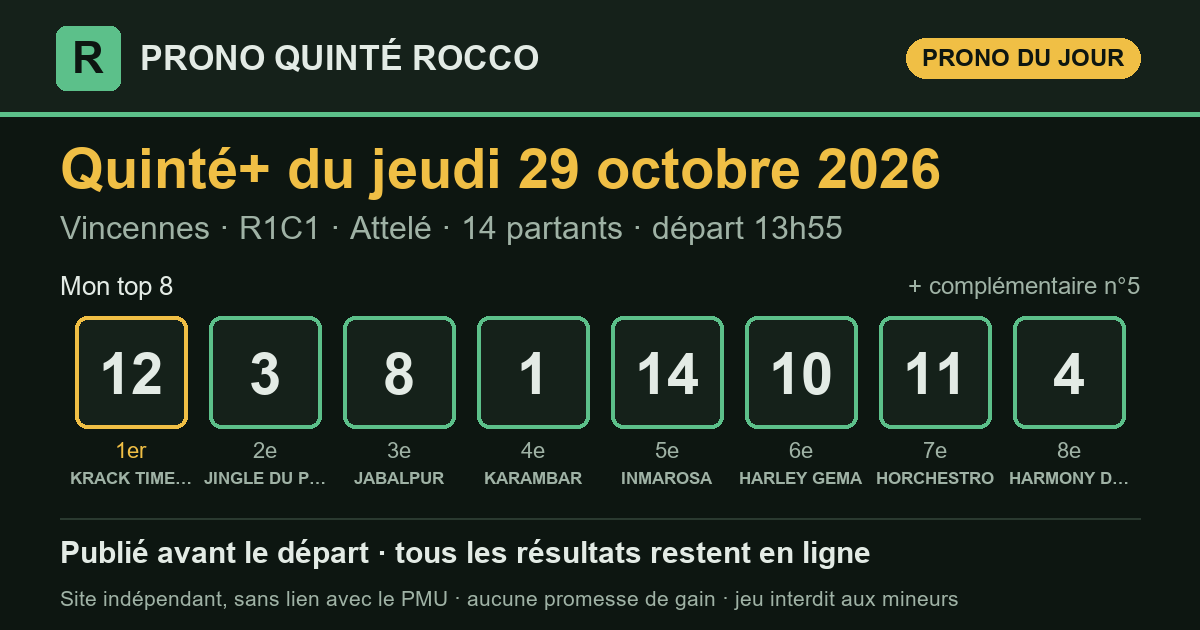
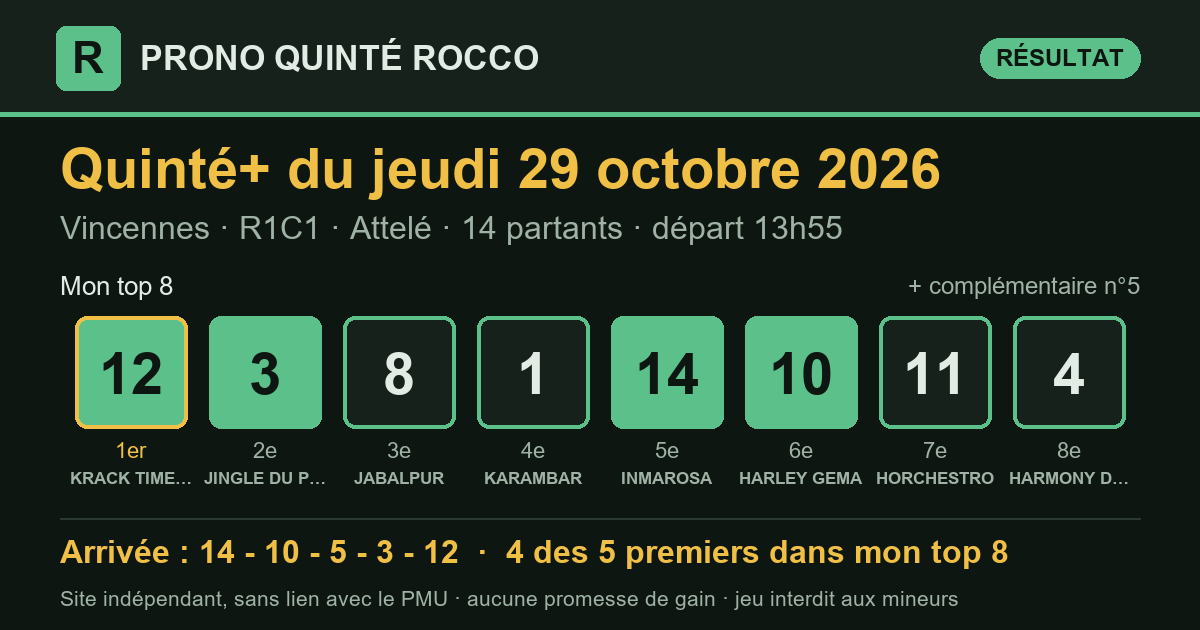
Prono Quinté+ 2026-10-29 Vincennes R1C1 — publié le 29/10/2026 14:12 (heure de Paris)

diff --git a/partants.html b/partants.html
@@ -3,7 +3,7 @@
 <head>
 <meta charset="utf-8">
 <meta name="viewport" content="width=device-width, initial-scale=1, viewport-fit=cover">
-<title>Partants du Quinté+ du jeudi 29 octobre 2026 — Prono Quinté Rocco</title>
+<title>Partants du Quinté+ du vendredi 30 octobre 2026 — Prono Quinté Rocco</title>
 <meta name="description" content="Les partants du prochain Quinté+ (programme officiel du PMU), avec le rang de chaque cheval dans mon prono et les liens vers les pronostics de la presse.">
 <link rel="canonical" href="https://prono-quinte-rocco.fr/partants.html">
 <link rel="stylesheet" href="style.css?v=88a1c822">
@@ -13,7 +13,7 @@
 <meta property="og:site_name" content="Prono Quinté Rocco">
 <meta property="og:locale" content="fr_FR">
 <meta property="og:type" content="website">
-<meta property="og:title" content="Partants du Quinté+ du jeudi 29 octobre 2026 — Prono Quinté Rocco">
+<meta property="og:title" content="Partants du Quinté+ du vendredi 30 octobre 2026 — Prono Quinté Rocco">
 <meta property="og:description" content="Les partants du prochain Quinté+ (programme officiel du PMU), avec le rang de chaque cheval dans mon prono et les liens vers les pronostics de la presse.">
 <meta property="og:url" content="https://prono-quinte-rocco.fr/partants.html">
 <meta name="twitter:card" content="summary">
@@ -29,90 +29,105 @@
   <p class="surtitre">Programme officiel du PMU</p>
   <h1>Les partants du prochain Quinté+</h1>
   <div class="fiche-course">
-    <p class="fiche-date">Jeudi 29 octobre 2026</p>
-    <div class="fiche-rc"><span class="pastille" title="Réunion 1">R1</span><span class="pastille" title="Course 1">C1</span><span class="fiche-nom">Prix des Cevennes</span></div>
-    <p class="meta">Vincennes · Trot_attele · 2 850 m · 14 partants</p>
-    <p class="fiche-depart">Départ <b>13:55</b> <span>heure de Paris</span></p>
+    <p class="fiche-date">Vendredi 30 octobre 2026</p>
+    <div class="fiche-rc"><span class="pastille" title="Réunion 1">R1</span><span class="pastille" title="Course 5">C5</span><span class="fiche-nom">Prix Mebsuta</span></div>
+    <p class="meta">Vincennes · Trot_attele · 2 700 m · 17 partants</p>
+    <p class="fiche-depart">Départ <b>20:22</b> <span>heure de Paris</span></p>
   </div>
   <p class="surtitre">Les pronostics ailleurs sur le web</p>
-  <div class="liens"><a class="lien-ext" href="https://www.turfoo.fr/programmes-courses/261029/reunion1-vincennes/course1-prix-des-cevennes/pronostics-presse/" rel="noopener" target="_blank"><b>Les pronostics de la presse →</b><span>sur Turfoo (site extérieur)</span></a><a class="lien-ext" href="https://www.geny.com/programme/2026-10-29" rel="noopener" target="_blank"><b>Partants et pronostics →</b><span>programme du jour sur Geny (site extérieur)</span></a></div>
+  <div class="liens"><a class="lien-ext" href="https://www.turfoo.fr/programmes-courses/261030/reunion1-vincennes/course5-prix-mebsuta/pronostics-presse/" rel="noopener" target="_blank"><b>Les pronostics de la presse →</b><span>sur Turfoo (site extérieur)</span></a><a class="lien-ext" href="https://www.geny.com/programme/2026-10-30" rel="noopener" target="_blank"><b>Partants et pronostics →</b><span>programme du jour sur Geny (site extérieur)</span></a></div>
   <div class="liste-boite"><table class="liste-partants">
     <thead><tr><th>N°</th><th>Cheval</th><th class="cote"><span class="long">Cote du matin</span><span class="court">Cote</span></th>
     <th class="ia"><span class="long">Mon prono</span><span class="court">Prono</span></th></tr></thead>
     <tbody><tr>
   <td><span class="tapis petit">1</span></td>
-  <td><span class="cheval">KARAMBAR</span><span class="sous">A. ABRIVARD · L.CL. ABRIVARD</span></td>
-  <td class="cote num">24,0</td>
-  <td class="ia"><span class="etat place">4<sup>e</sup></span></td>
+  <td><span class="cheval">MY HAPPY STORY</span><span class="sous">D. BONNE · D. BONNE</span></td>
+  <td class="cote num">—</td>
+  <td class="ia">—</td>
 </tr><tr>
   <td><span class="tapis petit">2</span></td>
-  <td><span class="cheval">HUBBLE DU VIVIER</span><span class="sous">Mme T. MATHIAS-MAISONNETTE · N. BAZIRE</span></td>
-  <td class="cote num">59,0</td>
+  <td><span class="cheval">MYGIRL DES FORGES</span><span class="sous">ALEXANDRE BODIN · CH. MOTTIER</span></td>
+  <td class="cote num">—</td>
   <td class="ia">—</td>
 </tr><tr>
   <td><span class="tapis petit">3</span></td>
-  <td><span class="cheval">JINGLE DU PONT</span><span class="sous">N. BAZIRE · N. BAZIRE</span></td>
-  <td class="cote num">5,9</td>
-  <td class="ia"><span class="etat place">2<sup>e</sup></span></td>
+  <td><span class="cheval">MA LIBERTE</span><span class="sous">M. MOTTIER · M. MOTTIER</span></td>
+  <td class="cote num">—</td>
+  <td class="ia">—</td>
 </tr><tr>
   <td><span class="tapis petit">4</span></td>
-  <td><span class="cheval">HARMONY DU RABUTIN</span><span class="sous">D. BONNE · F. GIARD</span></td>
-  <td class="cote num">21,0</td>
-  <td class="ia"><span class="etat place">8<sup>e</sup></span></td>
+  <td><span class="cheval">MILANTERA</span><span class="sous">A. BARRIER · J.PH. MONCLIN</span></td>
+  <td class="cote num">—</td>
+  <td class="ia">—</td>
 </tr><tr>
   <td><span class="tapis petit">5</span></td>
-  <td><span class="cheval">HULYSSE DIGEO</span><span class="sous">J.W. HALLAIS · J.W. HALLAIS</span></td>
-  <td class="cote num">13,0</td>
-  <td class="ia"><span class="etat place">compl.</span></td>
+  <td><span class="cheval">MORNING NEWS</span><span class="sous">A. COLLETTE · Sté. Ent. Etienne DUBOIS</span></td>
+  <td class="cote num">—</td>
+  <td class="ia">—</td>
 </tr><tr>
   <td><span class="tapis petit">6</span></td>
-  <td><span class="cheval">JUSTIN BOLD</span><span class="sous">P.Y. VERVA · J.R. DELLIAUX</span></td>
-  <td class="cote num">81,0</td>
+  <td><span class="cheval">MAHIZ DE GUEZ</span><span class="sous">N. BAZIRE · N. BAZIRE</span></td>
+  <td class="cote num">—</td>
   <td class="ia">—</td>
 </tr><tr>
   <td><span class="tapis petit">7</span></td>
-  <td><span class="cheval">HANNIBAL TUILERIE</span><span class="sous">G. LENAIN · CH.M. BRUNEAU</span></td>
-  <td class="cote num">30,0</td>
+  <td><span class="cheval">MI FA SOL</span><span class="sous">F. NIVARD · F. NIVARD</span></td>
+  <td class="cote num">—</td>
   <td class="ia">—</td>
 </tr><tr>
   <td><span class="tapis petit">8</span></td>
-  <td><span class="cheval">JABALPUR</span><span class="sous">E. RAFFIN · A. CHAVATTE</span></td>
-  <td class="cote num">6,3</td>
-  <td class="ia"><span class="etat place">3<sup>e</sup></span></td>
+  <td><span class="cheval">MISSLADY DU VICLAU</span><span class="sous">CH. HESLOUIN · CH. HESLOUIN</span></td>
+  <td class="cote num">—</td>
+  <td class="ia">—</td>
 </tr><tr>
   <td><span class="tapis petit">9</span></td>
-  <td><span class="cheval">KAPAULA DE L&#x27;EPINE</span><span class="sous">J.G. VAN EECKHAUTE · J.G. VAN EECKHAUTE</span></td>
-  <td class="cote num">73,0</td>
+  <td><span class="cheval">MOON DES ARRIS</span><span class="sous">A. REBECHE · V. LEBARQUE</span></td>
+  <td class="cote num">—</td>
   <td class="ia">—</td>
 </tr><tr>
   <td><span class="tapis petit">10</span></td>
-  <td><span class="cheval">HARLEY GEMA</span><span class="sous">B. ROCHARD · M. SASSIER</span></td>
-  <td class="cote num">12,0</td>
-  <td class="ia"><span class="etat place">6<sup>e</sup></span></td>
+  <td><span class="cheval">MELODICA BELLA</span><span class="sous">A. WIELS · J.P. MARMION</span></td>
+  <td class="cote num">—</td>
+  <td class="ia">—</td>
 </tr><tr>
   <td><span class="tapis petit">11</span></td>
-  <td><span class="cheval">HORCHESTRO</span><span class="sous">D. BEKAERT · M. BONNEFOY</span></td>
-  <td class="cote num">10,0</td>
-  <td class="ia"><span class="etat place">7<sup>e</sup></span></td>
+  <td><span class="cheval">MERIDA DU GRANIT</span><span class="sous">T. OUVRIE · J.PH. MONCLIN</span></td>
+  <td class="cote num">—</td>
+  <td class="ia">—</td>
 </tr><tr>
   <td><span class="tapis petit">12</span></td>
-  <td><span class="cheval">KRACK TIME ATOUT</span><span class="sous">F. NIVARD · S. GUARATO</span></td>
-  <td class="cote num">3,9</td>
-  <td class="ia"><span class="etat place">1<sup>er</sup></span></td>
+  <td><span class="cheval">MIA DE SIMM</span><span class="sous">F. LAGADEUC · J.ET. LE BEC</span></td>
+  <td class="cote num">—</td>
+  <td class="ia">—</td>
 </tr><tr>
   <td><span class="tapis petit">13</span></td>
-  <td><span class="cheval">IGUSKI SAUTONNE</span><span class="sous">J.ET. ABRIVARD · M. ABRIVARD</span></td>
-  <td class="cote num">52,0</td>
+  <td><span class="cheval">MOUSKIE DE GUEZ</span><span class="sous">J.M. BAZIRE · N. BAZIRE</span></td>
+  <td class="cote num">—</td>
   <td class="ia">—</td>
 </tr><tr>
   <td><span class="tapis petit">14</span></td>
-  <td><span class="cheval">INMAROSA</span><span class="sous">LEO ABRIVARD · L.CL. ABRIVARD</span></td>
-  <td class="cote num">6,4</td>
-  <td class="ia"><span class="etat place">5<sup>e</sup></span></td>
+  <td><span class="cheval">MERRY RIVER</span><span class="sous">B. ROCHARD · S. GUARATO</span></td>
+  <td class="cote num">—</td>
+  <td class="ia">—</td>
+</tr><tr>
+  <td><span class="tapis petit">15</span></td>
+  <td><span class="cheval">MARIE DI LEONE</span><span class="sous">P.PH. PLOQUIN · H. LE BEC</span></td>
+  <td class="cote num">—</td>
+  <td class="ia">—</td>
+</tr><tr>
+  <td><span class="tapis petit">16</span></td>
+  <td><span class="cheval">MOONLIGHT STAR</span><span class="sous">E. RAFFIN · ALEXANDRE CHEVRIER</span></td>
+  <td class="cote num">—</td>
+  <td class="ia">—</td>
+</tr><tr>
+  <td><span class="tapis petit">17</span></td>
+  <td><span class="cheval">MOUNTAIN</span><span class="sous">J. DUBOIS · J. DUBOIS</span></td>
+  <td class="cote num">—</td>
+  <td class="ia">—</td>
 </tr></tbody>
   </table></div>
-  <p class="meta">La colonne « Mon prono » donne le rang de chaque cheval dans mon top 8, tel qu&#x27;il est publié sur ce site. Sous chaque cheval : driver · entraîneur. Partants et cotes : programme
-  officiel du PMU, lu le 29/10 à 10:26 (heure de Paris). NP = non-partant.</p>
+  <p class="meta">Mon prono de cette course sera publié le matin de la course, avant le départ. Sous chaque cheval : driver · entraîneur. Partants et cotes : programme
+  officiel du PMU, lu le 29/10 à 14:12 (heure de Paris). NP = non-partant.</p>
 </section>
 </main>
 <footer class="pied">

diff --git a/index.html b/index.html
@@ -16,7 +16,7 @@
 <meta property="og:title" content="Pronostic Quinté+ du jeudi 29 octobre 2026 — Prono Quinté Rocco">
 <meta property="og:description" content="Pronostic Quinté+ du jour : mon top 8, publié avant le départ, puis tous les résultats et le rendement réel.">
 <meta property="og:url" content="https://prono-quinte-rocco.fr/">
-<meta property="og:image" content="https://prono-quinte-rocco.fr/partage/2026-10-29.png?v=5cd9e65d">
+<meta property="og:image" content="https://prono-quinte-rocco.fr/partage/2026-10-29.png?v=67e14e3a">
 <meta property="og:image:type" content="image/png">
 <meta property="og:image:width" content="1200">
 <meta property="og:image:height" content="630">
@@ -31,7 +31,7 @@
 </header>
 <main>
 <section class="une" aria-labelledby="t-jour">
-  <p class="surtitre">Quinté+ du jour</p>
+  <p class="surtitre">Dernier Quinté+</p>
   <h1 id="t-jour">Le prono du Quinté+, résultats compris</h1>
   <p class="chapo">Chaque matin, j'étudie les partants du Quinté+ avec le logiciel que
   j'ai conçu, selon ma propre méthode, qu'une intelligence artificielle m'aide à
@@ -42,10 +42,13 @@
   <p class="meta">Vincennes · <strong>R1C1</strong> · Attelé · 14 partants · lisibilité <span class="note" aria-label="note 2 sur 5"><i class="on"></i><i class="on"></i><i class=""></i><i class=""></i><i class=""></i></span> 2/5</p>
   <div class="zone-prono">
     <h3 class="zone-titre">Mon top 8</h3>
-    <ol class="partants" aria-label="Mon top 8"><li><span class="rang">1<sup>er</sup></span><span class="tapis ">12</span><span class="nom">KRACK TIME ATOUT</span></li><li><span class="rang">2<sup>e</sup></span><span class="tapis ">3</span><span class="nom">JINGLE DU PONT</span></li><li><span class="rang">3<sup>e</sup></span><span class="tapis ">8</span><span class="nom">JABALPUR</span></li><li><span class="rang">4<sup>e</sup></span><span class="tapis ">1</span><span class="nom">KARAMBAR</span></li><li><span class="rang">5<sup>e</sup></span><span class="tapis ">14</span><span class="nom">INMAROSA</span></li><li><span class="rang">6<sup>e</sup></span><span class="tapis ">10</span><span class="nom">HARLEY GEMA</span></li><li><span class="rang">7<sup>e</sup></span><span class="tapis ">11</span><span class="nom">HORCHESTRO</span></li><li><span class="rang">8<sup>e</sup></span><span class="tapis ">4</span><span class="nom">HARMONY DU RABUTIN</span></li><li><span class="rang">compl.</span><span class="tapis creux">5</span><span class="nom">HULYSSE DIGEO</span></li></ol>
+    <ol class="partants" aria-label="Mon top 8"><li><span class="rang">1<sup>er</sup></span><span class="tapis plein">12</span><span class="nom">KRACK TIME ATOUT</span></li><li><span class="rang">2<sup>e</sup></span><span class="tapis plein">3</span><span class="nom">JINGLE DU PONT</span></li><li><span class="rang">3<sup>e</sup></span><span class="tapis ">8</span><span class="nom">JABALPUR</span></li><li><span class="rang">4<sup>e</sup></span><span class="tapis ">1</span><span class="nom">KARAMBAR</span></li><li><span class="rang">5<sup>e</sup></span><span class="tapis plein">14</span><span class="nom">INMAROSA</span></li><li><span class="rang">6<sup>e</sup></span><span class="tapis plein">10</span><span class="nom">HARLEY GEMA</span></li><li><span class="rang">7<sup>e</sup></span><span class="tapis ">11</span><span class="nom">HORCHESTRO</span></li><li><span class="rang">8<sup>e</sup></span><span class="tapis ">4</span><span class="nom">HARMONY DU RABUTIN</span></li><li><span class="rang">compl.</span><span class="tapis creux plein">5</span><span class="nom">HULYSSE DIGEO</span></li></ol>
     <div class="pied-carte"><span>Analysé le 29/10 à 10:23 · en ligne le 29/10 à 10:26 · départ à 13:55 (heure de Paris)</span><span><a href="quinte/2026-10-29.html">Détail de la course</a></span></div>
   </div>
-  <div class="zone-arrivee attente"><p>L'arrivée officielle s'affichera ici après la course.</p></div>
+  <div class="zone-arrivee">
+    <div class="zone-tete"><h3 class="zone-titre">Arrivée officielle</h3><span class="etat place">4 des 5 premiers dans mon top 8</span><span class="etat non">mon 1er (n°12) : non placé</span></div>
+    <ol class="partants" aria-label="Arrivée officielle"><li><span class="rang">1<sup>er</sup></span><span class="tapis plein">14</span><span class="nom">INMAROSA</span></li><li><span class="rang">2<sup>e</sup></span><span class="tapis plein">10</span><span class="nom">HARLEY GEMA</span></li><li><span class="rang">3<sup>e</sup></span><span class="tapis creux plein">5</span><span class="nom">HULYSSE DIGEO</span></li><li><span class="rang">4<sup>e</sup></span><span class="tapis plein">3</span><span class="nom">JINGLE DU PONT</span></li><li><span class="rang">5<sup>e</sup></span><span class="tapis plein">12</span><span class="nom">KRACK TIME ATOUT</span></li></ol>
+  </div>
 </article>
 </section>
 <section class="suivre" aria-label="Suivre et soutenir">
@@ -75,7 +78,7 @@
 </section>
 <section class="bilan" aria-labelledby="t-bilan">
   <h2 id="t-bilan">Mon bilan depuis le 8 septembre 2026</h2>
-  <div class="tableau chiffres"><div class="case"><span class="gros ">72 %</span><span class="lib">des arrivants trouvés dans mon top 8</span><span class="ref">un top 8 tiré au hasard : 51 %</span></div><div class="case"><span class="gros ">86 %</span><span class="lib">des gagnants présents dans mon top 8</span><span class="ref"></span></div><div class="case"><span class="gros ">50 %</span><span class="lib">mon 1er placé</span><span class="ref">sur 50 Quintés</span></div><div class="case"><span class="gros perte">0,93 €</span><span class="lib">rendus pour 1 € joué placé sur mon 1er</span><span class="ref">rapports officiels PMU</span></div><div class="case"><span class="gros perte">0,47 €</span><span class="lib">rendus pour 1 € joué en Quinté+ combiné sur mon top 8</span><span class="ref">56 combinaisons, rapports PMU.fr, sur 50 Quintés</span></div></div>
+  <div class="tableau chiffres"><div class="case"><span class="gros ">73 %</span><span class="lib">des arrivants trouvés dans mon top 8</span><span class="ref">un top 8 tiré au hasard : 51 %</span></div><div class="case"><span class="gros ">86 %</span><span class="lib">des gagnants présents dans mon top 8</span><span class="ref"></span></div><div class="case"><span class="gros ">50 %</span><span class="lib">mon 1er placé</span><span class="ref">sur 50 Quintés</span></div><div class="case"><span class="gros perte">0,93 €</span><span class="lib">rendus pour 1 € joué placé sur mon 1er</span><span class="ref">rapports officiels PMU</span></div><div class="case"><span class="gros perte">0,46 €</span><span class="lib">rendus pour 1 € joué en Quinté+ combiné sur mon top 8</span><span class="ref">56 combinaisons, rapports PMU.fr, sur 51 Quintés</span></div></div>
   <p class="avertissement">Moins de 1 € rendu pour 1 € joué : suivre mon prono à la lettre fait <strong>perdre de l'argent</strong> sur cette période. Il sert à analyser une course, pas à promettre un gain.</p>
 </section>
 </main>

diff --git a/quinte/2026-10-29.html b/quinte/2026-10-29.html
@@ -16,7 +16,7 @@
 <meta property="og:title" content="Pronostic Quinté+ du jeudi 29 octobre 2026 à Vincennes — Prono Quinté Rocco">
 <meta property="og:description" content="Prono Quinté+ du jeudi 29 octobre 2026 (Vincennes) : mon top 8, l&#x27;arrivée officielle et les rapports PMU.fr.">
 <meta property="og:url" content="https://prono-quinte-rocco.fr/quinte/2026-10-29.html">
-<meta property="og:image" content="https://prono-quinte-rocco.fr/partage/2026-10-29.png?v=5cd9e65d">
+<meta property="og:image" content="https://prono-quinte-rocco.fr/partage/2026-10-29.png?v=67e14e3a">
 <meta property="og:image:type" content="image/png">
 <meta property="og:image:width" content="1200">
 <meta property="og:image:height" content="630">
@@ -35,15 +35,25 @@
   <h1>Pronostic Quinté+ du jeudi 29 octobre 2026</h1>
   <p class="chapo">Vincennes · R1C1 · Attelé · 14 partants</p>
   <article class="carte-course">
-  <div class="tete"><h2>Mon prono</h2></div>
+  <div class="tete"><h2>Mon prono et l&#x27;arrivée officielle</h2></div>
   <p class="meta">Vincennes · <strong>R1C1</strong> · Attelé · 14 partants · lisibilité <span class="note" aria-label="note 2 sur 5"><i class="on"></i><i class="on"></i><i class=""></i><i class=""></i><i class=""></i></span> 2/5</p>
   <div class="zone-prono">
     <h3 class="zone-titre">Mon top 8</h3>
-    <ol class="partants" aria-label="Mon top 8"><li><span class="rang">1<sup>er</sup></span><span class="tapis ">12</span><span class="nom">KRACK TIME ATOUT</span></li><li><span class="rang">2<sup>e</sup></span><span class="tapis ">3</span><span class="nom">JINGLE DU PONT</span></li><li><span class="rang">3<sup>e</sup></span><span class="tapis ">8</span><span class="nom">JABALPUR</span></li><li><span class="rang">4<sup>e</sup></span><span class="tapis ">1</span><span class="nom">KARAMBAR</span></li><li><span class="rang">5<sup>e</sup></span><span class="tapis ">14</span><span class="nom">INMAROSA</span></li><li><span class="rang">6<sup>e</sup></span><span class="tapis ">10</span><span class="nom">HARLEY GEMA</span></li><li><span class="rang">7<sup>e</sup></span><span class="tapis ">11</span><span class="nom">HORCHESTRO</span></li><li><span class="rang">8<sup>e</sup></span><span class="tapis ">4</span><span class="nom">HARMONY DU RABUTIN</span></li><li><span class="rang">compl.</span><span class="tapis creux">5</span><span class="nom">HULYSSE DIGEO</span></li></ol>
+    <ol class="partants" aria-label="Mon top 8"><li><span class="rang">1<sup>er</sup></span><span class="tapis plein">12</span><span class="nom">KRACK TIME ATOUT</span></li><li><span class="rang">2<sup>e</sup></span><span class="tapis plein">3</span><span class="nom">JINGLE DU PONT</span></li><li><span class="rang">3<sup>e</sup></span><span class="tapis ">8</span><span class="nom">JABALPUR</span></li><li><span class="rang">4<sup>e</sup></span><span class="tapis ">1</span><span class="nom">KARAMBAR</span></li><li><span class="rang">5<sup>e</sup></span><span class="tapis plein">14</span><span class="nom">INMAROSA</span></li><li><span class="rang">6<sup>e</sup></span><span class="tapis plein">10</span><span class="nom">HARLEY GEMA</span></li><li><span class="rang">7<sup>e</sup></span><span class="tapis ">11</span><span class="nom">HORCHESTRO</span></li><li><span class="rang">8<sup>e</sup></span><span class="tapis ">4</span><span class="nom">HARMONY DU RABUTIN</span></li><li><span class="rang">compl.</span><span class="tapis creux plein">5</span><span class="nom">HULYSSE DIGEO</span></li></ol>
     <div class="pied-carte"><span>Analysé le 29/10 à 10:23 · en ligne le 29/10 à 10:26 · départ à 13:55 (heure de Paris)</span><span></span></div>
   </div>
-  <div class="zone-arrivee attente"><p>L'arrivée officielle s'affichera ici après la course.</p></div>
+  <div class="zone-arrivee">
+    <div class="zone-tete"><h3 class="zone-titre">Arrivée officielle</h3><span class="etat place">4 des 5 premiers dans mon top 8</span><span class="etat non">mon 1er (n°12) : non placé</span></div>
+    <ol class="partants" aria-label="Arrivée officielle"><li><span class="rang">1<sup>er</sup></span><span class="tapis plein">14</span><span class="nom">INMAROSA</span></li><li><span class="rang">2<sup>e</sup></span><span class="tapis plein">10</span><span class="nom">HARLEY GEMA</span></li><li><span class="rang">3<sup>e</sup></span><span class="tapis creux plein">5</span><span class="nom">HULYSSE DIGEO</span></li><li><span class="rang">4<sup>e</sup></span><span class="tapis plein">3</span><span class="nom">JINGLE DU PONT</span></li><li><span class="rang">5<sup>e</sup></span><span class="tapis plein">12</span><span class="nom">KRACK TIME ATOUT</span></li></ol>
+  </div>
 </article>
+<section class="carte-course rapports" aria-labelledby="t-rap">
+  <div class="tete"><h2 id="t-rap">Les rapports</h2></div>
+  <div class="deux">
+    <div><h3>Ce qu'aurait rendu mon prono</h3><dl class="kv"><dt>1 € placé sur mon 1er (n°12)</dt><dd>rapport manquant</dd><dt>1 € gagnant sur mon 1er</dt><dd>rapport manquant</dd><dt>Quinté+ combiné sur mon top 8 (mise 112 €)</dt><dd>11,20 €</dd><dt>dont</dt><dd>Bonus 4sur5 × 4</dd></dl></div>
+    <div><h3>Rapports officiels</h3><dl class="kv"><dt>e-Quinté+ Ordre (2 €)</dt><dd>3 319,20 €</dd><dt>e-Quinté+ Désordre (2 €)</dt><dd>27,60 €</dd><dt>e-Bonus 4sur5 (2 €)</dt><dd>2,80 €</dd><dt>e-Bonus 3 (2 €)</dt><dd>2,60 €</dd></dl></div>
+  </div>
+</section>
 </section>
 </main>
 <footer class="pied">

diff --git a/resultats.html b/resultats.html
@@ -40,11 +40,11 @@
     <th colspan="4" class="res g-res">Le résultat officiel</th></tr>
     <tr><th>Date</th><th>Course</th><th>Top 8</th><th class="res c-arr">Arrivée</th>
     <th class="res">Trouvés</th><th class="res">Mon 1er</th><th class="res mont">Quinté+ top 8<br>(mise 112 €)</th></tr></thead>
-    <tbody><tr class="attente">
+    <tbody><tr>
   <td class="c-date"><a href="quinte/2026-10-29.html">29/10</a></td>
   <td class="c-course">Vincennes<br><span class="meta">R1C1 · Attelé</span></td>
-  <td class="c-top8" data-label="Mon top 8"><div class="rangee"><span class="tapis petit">12</span><span class="tapis petit">3</span><span class="tapis petit">8</span><span class="tapis petit">1</span><span class="tapis petit">14</span><span class="tapis petit">10</span><span class="tapis petit">11</span><span class="tapis petit">4</span></div></td>
-  <td class="res c-arr" data-label="Arrivée"><span class="etat attente">en attente</span></td><td class="res num c-trouves" data-label="Trouvés">—</td><td class="res c-premier" data-label="Mon 1er"><span class="etat attente">—</span></td><td class="res mont c-mont" data-label="Quinté+ top 8 (mise 112 €)">—</td>
+  <td class="c-top8" data-label="Mon top 8"><div class="rangee"><span class="tapis plein petit">12</span><span class="tapis plein petit">3</span><span class="tapis petit">8</span><span class="tapis petit">1</span><span class="tapis plein petit">14</span><span class="tapis plein petit">10</span><span class="tapis petit">11</span><span class="tapis petit">4</span></div></td>
+  <td class="res c-arr" data-label="Arrivée"><div class="rangee"><span class="tapis plein petit" title="1er">14</span><span class="tapis plein petit" title="2e">10</span><span class="tapis hors petit" title="3e">5</span><span class="tapis plein petit" title="4e">3</span><span class="tapis plein petit" title="5e">12</span></div></td><td class="res num c-trouves" data-label="Trouvés">4/5</td><td class="res c-premier" data-label="Mon 1er"><span class="etat non">non placé</span></td><td class="res mont c-mont perte" data-label="Quinté+ top 8 (mise 112 €)">11,20 €</td>
 </tr><tr>
   <td class="c-date"><a href="quinte/2026-10-28.html">28/10</a></td>
   <td class="c-course">Auteuil<br><span class="meta">R1C4 · Haies</span></td>
@@ -300,7 +300,7 @@
 </section>
 <section class="bilan" aria-labelledby="t-bilan">
   <h2 id="t-bilan">Mon bilan depuis le 8 septembre 2026</h2>
-  <div class="tableau chiffres"><div class="case"><span class="gros ">72 %</span><span class="lib">des arrivants trouvés dans mon top 8</span><span class="ref">un top 8 tiré au hasard : 51 %</span></div><div class="case"><span class="gros ">86 %</span><span class="lib">des gagnants présents dans mon top 8</span><span class="ref"></span></div><div class="case"><span class="gros ">50 %</span><span class="lib">mon 1er placé</span><span class="ref">sur 50 Quintés</span></div><div class="case"><span class="gros perte">0,93 €</span><span class="lib">rendus pour 1 € joué placé sur mon 1er</span><span class="ref">rapports officiels PMU</span></div><div class="case"><span class="gros perte">0,47 €</span><span class="lib">rendus pour 1 € joué en Quinté+ combiné sur mon top 8</span><span class="ref">56 combinaisons, rapports PMU.fr, sur 50 Quintés</span></div></div>
+  <div class="tableau chiffres"><div class="case"><span class="gros ">73 %</span><span class="lib">des arrivants trouvés dans mon top 8</span><span class="ref">un top 8 tiré au hasard : 51 %</span></div><div class="case"><span class="gros ">86 %</span><span class="lib">des gagnants présents dans mon top 8</span><span class="ref"></span></div><div class="case"><span class="gros ">50 %</span><span class="lib">mon 1er placé</span><span class="ref">sur 50 Quintés</span></div><div class="case"><span class="gros perte">0,93 €</span><span class="lib">rendus pour 1 € joué placé sur mon 1er</span><span class="ref">rapports officiels PMU</span></div><div class="case"><span class="gros perte">0,46 €</span><span class="lib">rendus pour 1 € joué en Quinté+ combiné sur mon top 8</span><span class="ref">56 combinaisons, rapports PMU.fr, sur 51 Quintés</span></div></div>
   <p class="avertissement">Moins de 1 € rendu pour 1 € joué : suivre mon prono à la lettre fait <strong>perdre de l'argent</strong> sur cette période. Il sert à analyser une course, pas à promettre un gain.</p>
 </section>
 </main>
